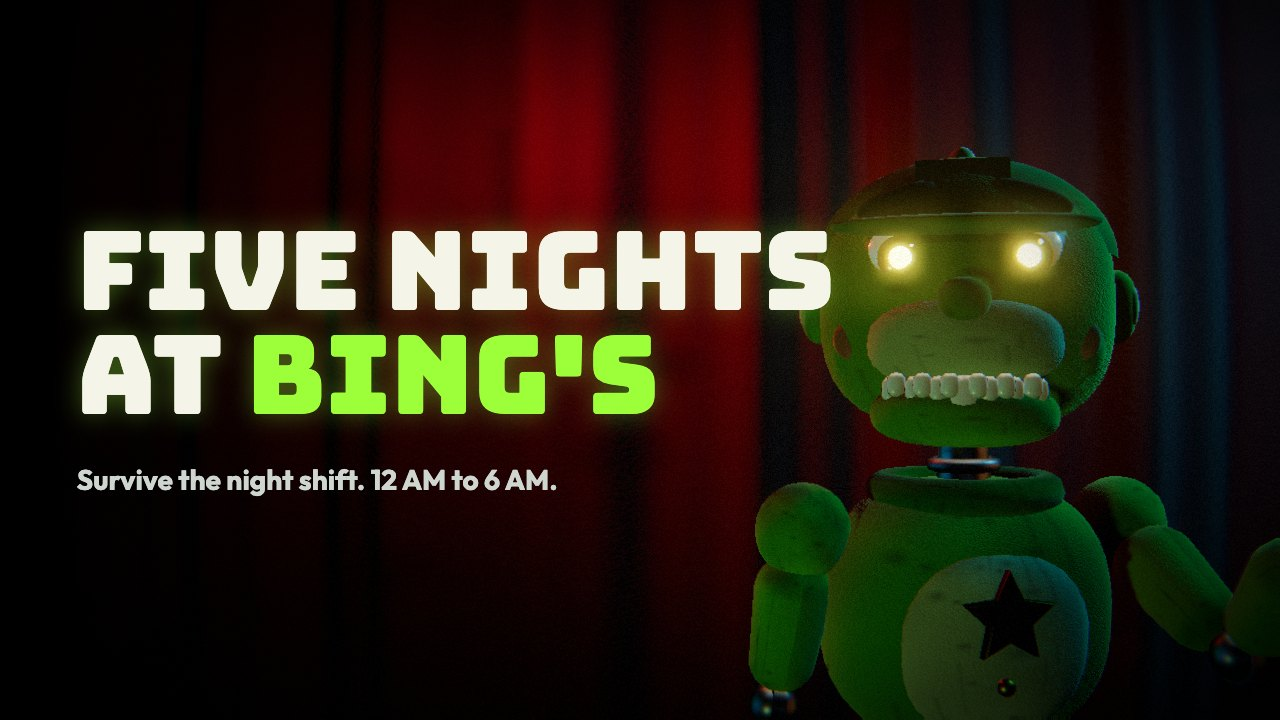
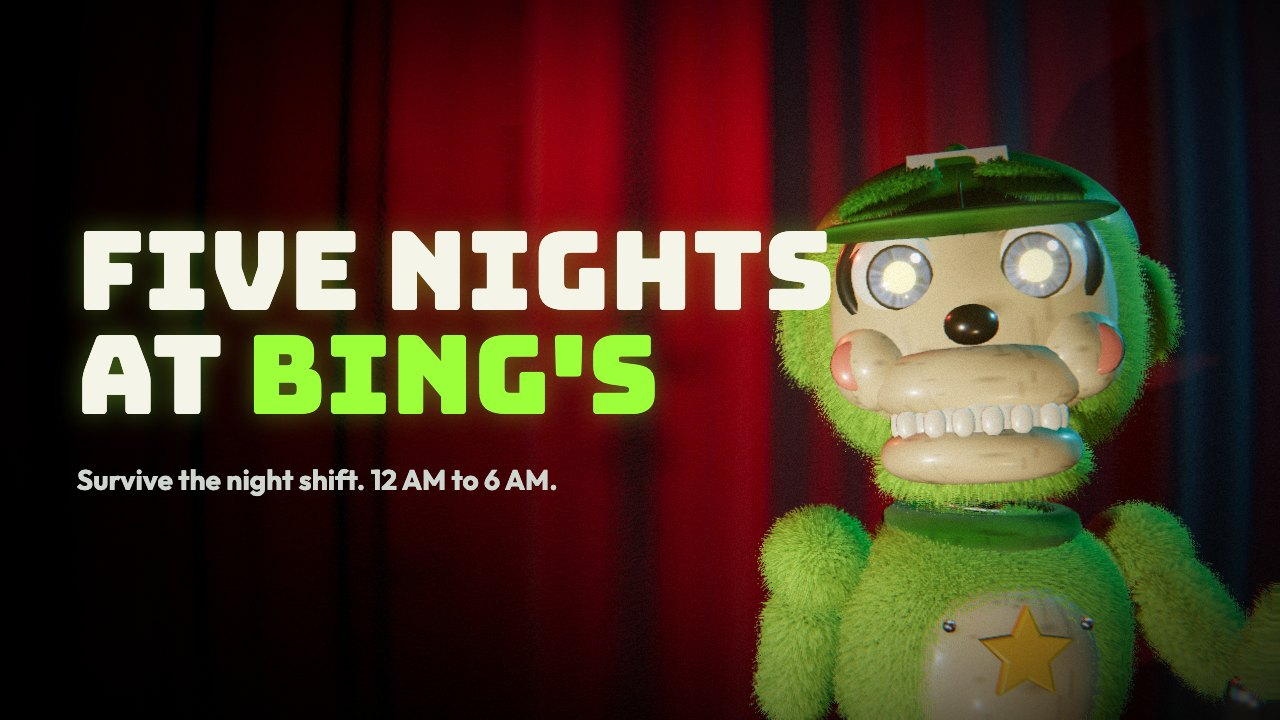
Five Nights at Bing's: fur-shell animatronics with face plates, glassy eyes, chrome joints and springs

diff --git a/games/five-nights-at-bings/js/models.js b/games/five-nights-at-bings/js/models.js
@@ -1,134 +1,139 @@
 // The cast, built from parts: fabric suit shells over a metal endoskeleton, with eyes that follow you.
 import * as THREE from 'three';
-import { TAU, add, B, sq, limbGeo, lathe, gSph, gCyl, gBox, suit, paint, metal, plastic, glass, glow, tex, label, sign, BLACK, ENDO, TOOTH, GRIME } from './kit.js';
+import { TAU, add, B, sq, limbGeo, lathe, gSph, gCyl, gBox, suit, paint, metal, plastic, glass, glow, tex, label, sign, BLACK, ENDO, TOOTH, GRIME, furMat, furMesh, spring, irisTex } from './kit.js';
 
 const SPEC = {
-  bing: { suit: 0x7dcb35, plate: 0xe8f1c6, dark: 0x3f8f17, eye: 0xffe45a, iris: 0x8a5a12, W: 1, leg: 0.62, ry: 0.34, bz: 1, head: 1.08, S: 0.9 },
-  dylan: { suit: 0x2f62cc, plate: 0xc9d8f2, dark: 0x1b3a80, eye: 0xff4a3a, iris: 0x8a1a12, W: 0.8, leg: 0.84, ry: 0.31, bz: 0.9, head: 0.96, S: 0.9 },
-  gavin: { suit: 0xea8c2e, plate: 0xffe2b8, dark: 0xa85a12, eye: 0xffd27a, iris: 0x5a3208, W: 1.5, leg: 0.5, ry: 0.42, bz: 1.55, head: 1.16, S: 0.92 },
-  sal: { suit: 0xc07a3c, plate: 0xe8d9c0, dark: 0x7a1f2b, eye: 0x8dff5a, iris: 0x2f6a1a, W: 0.95, leg: 0.64, ry: 0.34, bz: 1, head: 1, S: 0.9 },
+  bing: { suit: 0x8bd13f, plate: 0xf3e2b8, dark: 0x3f8f17, shoe: 0xc9e83a, eye: 0xffe45a, iris: 0x2f6fd0, W: 1, leg: 0.6, ry: 0.33, bz: 1, head: 1.16, S: 0.88 },
+  dylan: { suit: 0x3a6fdc, plate: 0xd6e2f6, dark: 0x1b3a80, shoe: 0xd23a3a, eye: 0xff4a3a, iris: 0xc0392b, W: 0.8, leg: 0.82, ry: 0.3, bz: 0.9, head: 1.04, S: 0.88 },
+  gavin: { suit: 0xf0932f, plate: 0xffe6c4, dark: 0xa85a12, shoe: 0x6a3a14, eye: 0xffd27a, iris: 0x7a4a12, W: 1.5, leg: 0.48, ry: 0.42, bz: 1.55, head: 1.24, S: 0.9 },
+  sal: { suit: 0xc88446, plate: 0xf0dcc0, dark: 0x7a1f2b, shoe: 0x1c1c20, eye: 0x8dff5a, iris: 0x3f8f2a, W: 0.95, leg: 0.62, ry: 0.33, bz: 1, head: 1.08, S: 0.88 },
 };
-const EYEWHITE = plastic(0xe9e6da, { roughness: 0.12 });
-const SPARK = glow(0xffffff);
+const EYEWHITE = plastic(0xf2efe6, { roughness: 0.08 });
+const SPARK = glow(0xffffff, 1.6);
+const CHROME = metal(0xcfd3d8, 0.16);
 
 function makeEye(r, iris, pupilMat) {
   const g = new THREE.Group();
-  add(g, gSph(r, 22), EYEWHITE);
-  const cap = (th, mat, rr) => { const m = add(g, new THREE.SphereGeometry(rr, 22, 8, 0, TAU, 0, th), mat); m.rotation.x = Math.PI / 2; };
-  cap(0.62, plastic(iris), r * 1.012); cap(0.3, pupilMat, r * 1.026);
-  add(g, gSph(r * 0.08, 8), SPARK, r * 0.28, r * 0.34, r * 0.9);
+  add(g, gSph(r, 26), EYEWHITE);
+  const cap = (th, mat, rr) => { const m = add(g, new THREE.SphereGeometry(rr, 26, 10, 0, TAU, 0, th), mat); m.rotation.x = Math.PI / 2; };
+  cap(0.68, plastic(0xffffff, { map: irisTex(iris), roughness: 0.1 }), r * 1.012); cap(0.3, pupilMat, r * 1.024);
+  add(g, gSph(r * 0.1, 8), SPARK, r * 0.3, r * 0.36, r * 0.9); add(g, gSph(r * 0.05, 6), SPARK, -r * 0.22, -r * 0.2, r * 0.95);
   return g;
 }
 
 // A head on its own (also used for the spare heads in Storage, with empty sockets).
 export function makeHead(who, empty = false) {
   const c = SPEC[who], out = new THREE.Group(), g = new THREE.Group(); out.add(g); g.scale.setScalar(c.head);
-  const S = suit(c.suit), Pm = suit(c.plate), dk = suit(0x1b1d22), D = suit(c.dark);
-  add(g, sq(0.33, 0.29, 0.31, 2.8, 32), S, 0, 0.3, 0);
-  for (const s of [-1, 1]) { add(g, sq(0.05, 0.085, 0.06, 2.4, 14), S, s * 0.335, 0.3, -0.02); add(g, sq(0.022, 0.05, 0.035, 2.4, 12), Pm, s * 0.365, 0.3, -0.005); add(g, gSph(0.1, 18), S, s * 0.2, 0.2, 0.15); add(g, gSph(0.045, 12), suit(0xe58a7a), s * 0.235, 0.205, 0.225).scale.z = 0.45; }
-  add(g, sq(0.215, 0.105, 0.15, 2.6, 24), Pm, 0, 0.2, 0.2);
-  add(g, sq(0.055, 0.045, 0.05, 2.2, 14), who === 'sal' ? suit(0xb0483a) : D, 0, 0.28, 0.34);
-  add(g, sq(0.17, 0.02, 0.11, 3, 12), BLACK, 0, 0.105, 0.2);
-  for (let i = -3; i <= 3; i++) { const big = who === 'bing' && Math.abs(i) < 1; add(g, sq(big ? 0.03 : 0.02, big ? 0.04 : 0.028, 0.014, 3, 8), TOOTH, i * 0.05, big ? 0.085 : 0.095, 0.335 - i * i * 0.006); }
-  const jaw = new THREE.Group(); jaw.position.set(0, 0.14, 0.03); g.add(jaw);
-  add(jaw, sq(0.2, 0.07, 0.16, 2.6, 22), S, 0, -0.085, 0.165); add(jaw, sq(0.16, 0.015, 0.11, 3, 10), BLACK, 0, -0.03, 0.17); add(jaw, sq(0.07, 0.018, 0.09, 2, 10), paint(0x7a2a2a, { roughness: 0.4 }), 0, -0.02, 0.19);
-  for (let i = -2.5; i <= 2.5; i++) add(jaw, sq(0.02, 0.026, 0.013, 3, 8), TOOTH, i * 0.055, -0.022, 0.315 - i * i * 0.007);
-  // endoskeleton hinge visible at the jaw corners
-  for (const s of [-1, 1]) add(g, gCyl(0.03, 0.03, 0.04, 10), ENDO, s * 0.2, 0.14, 0.04).rotation.z = Math.PI / 2;
-  const pupil = new THREE.MeshStandardMaterial({ color: 0x000000, roughness: 0.2, emissive: c.eye, emissiveIntensity: 0 });
-  const eyes = [], lids = [], r = 0.082;
+  const F = furMat(c.suit), Pl = plastic(c.plate, { roughness: 0.42, clearcoat: 0.4, map: GRIME }), dk = plastic(0x15171b, { roughness: 0.45 }), DF = furMat(c.dark, 0.02);
+  furMesh(g, sq(0.34, 0.31, 0.32, 2.6, 36), F, 0, 0.32, 0);
+  for (const s of [-1, 1]) { furMesh(g, sq(0.06, 0.1, 0.07, 2.4, 14), F, s * 0.35, 0.32, -0.02); add(g, sq(0.022, 0.06, 0.04, 2.4, 12), Pl, s * 0.388, 0.32, 0.0); }
+  add(g, sq(0.275, 0.245, 0.12, 2.5, 32), Pl, 0, 0.315, 0.235);
+  for (const s of [-1, 1]) { add(g, gSph(0.092, 20), Pl, s * 0.185, 0.215, 0.268); add(g, gSph(0.05, 12), plastic(0xe9877a, { roughness: 0.5 }), s * 0.222, 0.212, 0.33).scale.z = 0.35; }
+  add(g, sq(0.2, 0.075, 0.1, 2.6, 24), Pl, 0, 0.168, 0.285);
+  add(g, sq(0.05, 0.038, 0.045, 2.2, 14), plastic(who === 'sal' ? 0xb0483a : 0x2a1c14, { roughness: 0.3 }), 0, 0.268, 0.378);
+  add(g, sq(0.16, 0.02, 0.09, 3, 10), BLACK, 0, 0.1, 0.27);
+  for (let i = -3; i <= 3; i++) { const big = who === 'bing' && Math.abs(i) < 1; add(g, sq(big ? 0.03 : 0.021, big ? 0.042 : 0.03, 0.014, 3, 8), TOOTH, i * 0.048, big ? 0.084 : 0.092, 0.365 - i * i * 0.0065); }
+  const jaw = new THREE.Group(); jaw.position.set(0, 0.13, 0.06); g.add(jaw);
+  add(jaw, sq(0.19, 0.062, 0.14, 2.6, 24), Pl, 0, -0.085, 0.2); furMesh(jaw, sq(0.2, 0.06, 0.14, 2.4, 18), F, 0, -0.118, 0.1);
+  add(jaw, sq(0.15, 0.014, 0.1, 3, 10), BLACK, 0, -0.036, 0.2); add(jaw, sq(0.07, 0.018, 0.08, 2, 10), plastic(0x8a2f2f, { roughness: 0.3 }), 0, -0.026, 0.22);
+  for (let i = -2.5; i <= 2.5; i++) add(jaw, sq(0.021, 0.027, 0.013, 3, 8), TOOTH, i * 0.052, -0.026, 0.33 - i * i * 0.0075);
+  for (const s of [-1, 1]) { add(g, gCyl(0.034, 0.034, 0.05, 12), CHROME, s * 0.205, 0.13, 0.07).rotation.z = Math.PI / 2; add(g, gSph(0.014, 8), CHROME, s * 0.235, 0.13, 0.07); }
+  const pupil = new THREE.MeshStandardMaterial({ color: 0x000000, roughness: 0.15, emissive: c.eye, emissiveIntensity: 0 });
+  const eyes = [], lids = [], r = 0.1;
   for (const s of [-1, 1]) {
-    add(g, gSph(r * 1.24, 18), BLACK, s * 0.135, 0.385, 0.18);
+    add(g, gSph(r * 1.16, 18), BLACK, s * 0.13, 0.385, 0.235);
+    add(g, new THREE.TorusGeometry(r * 1.03, 0.02, 10, 30), dk, s * 0.13, 0.385, 0.305);
     if (!empty) {
-      const e = makeEye(r, c.iris, pupil); e.position.set(s * 0.135, 0.385, 0.225); g.add(e); eyes.push(e);
-      const lg = new THREE.Group(); lg.position.copy(e.position); g.add(lg); add(lg, new THREE.SphereGeometry(r * 1.13, 20, 9, 0, TAU, 0, Math.PI / 2), S); lg.rotation.x = -0.45; lids.push(lg);
+      const e = makeEye(r, c.iris, pupil); e.position.set(s * 0.13, 0.385, 0.278); g.add(e); eyes.push(e);
+      const lg = new THREE.Group(); lg.position.copy(e.position); g.add(lg); add(lg, new THREE.SphereGeometry(r * 1.1, 24, 10, 0, TAU, 0, Math.PI / 2), Pl); lg.rotation.x = -0.5; lids.push(lg);
     }
-    add(g, sq(0.09, 0.026, 0.032, 2.4, 12), dk, s * 0.14, 0.505, 0.262).rotation.z = -s * 0.34;
+    furMesh(g, sq(0.1, 0.028, 0.04, 2.4, 12), DF, s * 0.135, 0.548, 0.3).rotation.z = -s * 0.3;
   }
   if (who === 'bing') {
-    add(g, new THREE.SphereGeometry(0.345, 28, 12, 0, TAU, 0, Math.PI / 2), D, 0, 0.4, -0.01).scale.set(1, 0.72, 0.98);
-    add(g, sq(0.27, 0.018, 0.2, 2.6, 18), D, 0, 0.43, 0.36).rotation.x = 0.12; add(g, gSph(0.03, 10), Pm, 0, 0.655, -0.01);
-    const b = sign(g, 0.2, 0.17, 0, 0.535, 0.262, 0, label('B', '#3f8f17', '#f4f4e8', 0.86), false, 128); b.rotation.x = -0.62;
+    const capM = plastic(c.dark, { roughness: 0.55, clearcoat: 0.2, map: GRIME });
+    add(g, new THREE.SphereGeometry(0.36, 30, 14, 0, TAU, 0, Math.PI / 2), capM, 0, 0.44, -0.01).scale.set(1, 0.7, 0.98);
+    add(g, sq(0.28, 0.018, 0.2, 2.6, 20), capM, 0, 0.46, 0.38).rotation.x = 0.12; add(g, gSph(0.032, 10), capM, 0, 0.695, -0.01);
+    for (let k = 0; k < 6; k++) { const sm = add(g, new THREE.TorusGeometry(0.352, 0.004, 4, 20, Math.PI), plastic(0x2f6f12), 0, 0.44, -0.01); sm.rotation.y = k * Math.PI / 6; sm.scale.y = 0.7; }
+    const b = sign(g, 0.2, 0.17, 0, 0.575, 0.272, 0, label('B', '#3f8f17', '#f4f4e8', 0.86), false, 128); b.rotation.x = -0.6;
   }
   if (who === 'dylan') {
-    const hair = suit(0x14161c);
-    for (let k = 0; k < 13; k++) { const a = (k / 12 - 0.5) * 2.2, row = k % 2, s = add(g, new THREE.ConeGeometry(0.075, 0.26 + row * 0.08, 7), hair, Math.sin(a) * 0.24, 0.56 + Math.cos(a) * 0.08, row ? -0.08 : 0.08); s.rotation.set(row ? -0.3 : 0.35, 0, -a * 0.8); }
-    const red = plastic(0xe23d3d); add(g, new THREE.TorusGeometry(0.36, 0.028, 10, 28, Math.PI), red, 0, 0.3, -0.02);
-    for (const s of [-1, 1]) { add(g, gCyl(0.11, 0.11, 0.07, 20), red, s * 0.385, 0.3, -0.02).rotation.z = Math.PI / 2; add(g, new THREE.TorusGeometry(0.085, 0.03, 8, 18), suit(0x14161c), s * 0.35, 0.3, -0.02).rotation.y = Math.PI / 2; }
+    const hair = furMat(0x15171d, 0.02);
+    for (let k = 0; k < 15; k++) { const a = (k / 14 - 0.5) * 2.3, row = k % 2, sp = furMesh(g, new THREE.ConeGeometry(0.08, 0.28 + row * 0.1, 8), hair, Math.sin(a) * 0.25, 0.6 + Math.cos(a) * 0.08, row ? -0.1 : 0.08); sp.rotation.set(row ? -0.3 : 0.35, 0, -a * 0.8); }
+    const red = plastic(0xe23d3d); add(g, new THREE.TorusGeometry(0.385, 0.03, 10, 30, Math.PI), red, 0, 0.32, -0.02);
+    for (const s of [-1, 1]) { add(g, gCyl(0.12, 0.12, 0.08, 22), red, s * 0.42, 0.32, -0.02).rotation.z = Math.PI / 2; add(g, new THREE.TorusGeometry(0.09, 0.034, 8, 20), plastic(0x15171b, { roughness: 0.7 }), s * 0.385, 0.32, -0.02).rotation.y = Math.PI / 2; add(g, gCyl(0.06, 0.06, 0.012, 16), CHROME, s * 0.462, 0.32, -0.02).rotation.z = Math.PI / 2; }
   }
   if (who === 'gavin') {
-    const hat = suit(0xf6f2ea); add(g, gCyl(0.27, 0.28, 0.17, 24), hat, 0, 0.63, 0);
-    for (let k = 0; k < 6; k++) add(g, gSph(0.19, 16), hat, Math.cos(k * TAU / 6) * 0.17, 0.84, Math.sin(k * TAU / 6) * 0.17); add(g, gSph(0.22, 16), hat, 0, 0.93, 0);
-    add(g, sq(0.2, 0.07, 0.14, 2.2, 16), Pm, 0, 0.02, 0.12); // double chin
+    const hat = suit(0xf6f2ea); add(g, gCyl(0.28, 0.29, 0.18, 26), hat, 0, 0.67, 0);
+    for (let k = 0; k < 7; k++) add(g, gSph(0.19, 18), hat, Math.cos(k * TAU / 7) * 0.18, 0.89, Math.sin(k * TAU / 7) * 0.18); add(g, gSph(0.23, 18), hat, 0, 0.98, 0);
+    add(g, sq(0.21, 0.07, 0.15, 2.2, 16), Pl, 0, 0.03, 0.14);
   }
   if (who === 'sal') {
-    const hair = plastic(0x0c0c0e, { roughness: 0.3 });
-    add(g, new THREE.SphereGeometry(0.34, 26, 12, 0, TAU, 0, Math.PI / 2.15), hair, 0, 0.33, -0.015).scale.set(1.01, 0.86, 1);
-    add(g, sq(0.2, 0.05, 0.08, 2.2, 12), hair, 0.1, 0.56, 0.2).rotation.set(0.3, 0, -0.25);
-    for (const s of [-1, 1]) { add(g, sq(0.03, 0.09, 0.07, 2.4, 10), hair, s * 0.325, 0.36, 0.07); const m = add(g, limbGeo(0.03, 0.012, 0.15, 10), suit(0x15110e), s * 0.012, 0.225, 0.345); m.rotation.set(0.2, 0, s * 1.25); }
-    if (lids[0]) lids[0].userData.droop = 0.55;
+    const hair = plastic(0x0c0c0e, { roughness: 0.22 });
+    add(g, new THREE.SphereGeometry(0.352, 28, 12, 0, TAU, 0, Math.PI / 2.15), hair, 0, 0.36, -0.015).scale.set(1.01, 0.86, 1);
+    add(g, sq(0.2, 0.05, 0.08, 2.2, 12), hair, 0.1, 0.6, 0.2).rotation.set(0.3, 0, -0.25);
+    const st = furMat(0x17120e, 0.016);
+    for (const s of [-1, 1]) { add(g, sq(0.03, 0.09, 0.07, 2.4, 10), hair, s * 0.335, 0.38, 0.08); const m = furMesh(g, limbGeo(0.034, 0.012, 0.17, 10), st, s * 0.012, 0.232, 0.385); m.rotation.set(0.2, 0, s * 1.25); }
+    if (lids[0]) lids[0].userData.droop = 0.6;
   }
-  out.userData = { jaw, eyes, lids, pupil, top: 0.6 * c.head };
+  out.userData = { jaw, eyes, lids, pupil, top: 0.64 * c.head };
   return out;
 }
 
-function makeArm(c, s, S, Pm) {
+function makeArm(c, s, F, Pl) {
   const sh = new THREE.Group(), el = new THREE.Group(), hand = new THREE.Group();
-  add(sh, gSph(0.12, 18), S); add(sh, limbGeo(0.1, 0.085, 0.36), S, 0, -0.06, 0);
-  add(sh, gCyl(0.03, 0.03, 0.1, 8), ENDO, 0, -0.42, 0);
-  el.position.y = -0.46; sh.add(el); add(el, gSph(0.062, 14), ENDO); add(el, gCyl(0.07, 0.07, 0.035, 12), ENDO).rotation.z = Math.PI / 2;
-  add(el, limbGeo(0.08, 0.1, 0.32), S, 0, -0.05, 0); add(el, gCyl(0.028, 0.028, 0.08, 8), ENDO, 0, -0.39, 0);
-  hand.position.y = -0.43; el.add(hand);
-  add(hand, sq(0.078, 0.08, 0.045, 2.6, 14), Pm, 0, -0.07, 0);
-  for (let i = 0; i < 4; i++) { const f = add(hand, limbGeo(0.025, 0.021, 0.13, 8), Pm, (i - 1.5) * 0.04, -0.12, 0.01); f.rotation.x = -0.75; f.rotation.z = (i - 1.5) * 0.06; add(f, limbGeo(0.021, 0.018, 0.09, 8), Pm, 0, -0.115, 0).rotation.x = -0.9; }
-  const th = add(hand, limbGeo(0.027, 0.022, 0.1, 8), Pm, s * 0.07, -0.04, 0.02); th.rotation.set(-0.9, 0, s * 0.9);
+  furMesh(sh, gSph(0.125, 18), F); furMesh(sh, limbGeo(0.1, 0.085, 0.36), F, 0, -0.06, 0);
+  add(sh, gCyl(0.028, 0.028, 0.1, 8), CHROME, 0, -0.42, 0);
+  el.position.y = -0.46; sh.add(el); add(el, gSph(0.062, 16), CHROME); add(el, gCyl(0.07, 0.07, 0.036, 14), ENDO).rotation.z = Math.PI / 2; for (const k of [-1, 1]) add(el, gSph(0.016, 8), CHROME, k * 0.04, 0, 0.06);
+  furMesh(el, limbGeo(0.08, 0.098, 0.3), F, 0, -0.05, 0); add(el, gCyl(0.1, 0.092, 0.05, 20), Pl, 0, -0.355, 0); spring(el, 0.034, 0.07, 3, 0, -0.405, 0, CHROME);
+  hand.position.y = -0.44; el.add(hand);
+  add(hand, sq(0.08, 0.082, 0.046, 2.6, 16), Pl, 0, -0.07, 0);
+  for (let i = 0; i < 4; i++) { const f = add(hand, limbGeo(0.026, 0.022, 0.13, 10), Pl, (i - 1.5) * 0.041, -0.12, 0.01); f.rotation.x = -0.75; f.rotation.z = (i - 1.5) * 0.06; add(f, gSph(0.024, 8), CHROME, 0, -0.118, 0); add(f, limbGeo(0.022, 0.018, 0.09, 10), Pl, 0, -0.118, 0).rotation.x = -0.9; }
+  const th = add(hand, limbGeo(0.028, 0.022, 0.1, 10), Pl, s * 0.072, -0.04, 0.02); th.rotation.set(-0.9, 0, s * 0.9);
   return { sh, el, hand };
 }
 
 export function makeBot(who) {
   const c = SPEC[who], g = new THREE.Group(), W = c.W;
-  const S = suit(c.suit), Pm = suit(c.plate), D = suit(c.dark), shoe = suit(0x202228);
+  const F = furMat(c.suit), Pl = plastic(c.plate, { roughness: 0.42, clearcoat: 0.4, map: GRIME }), DF = furMat(c.dark), shoe = plastic(c.shoe, { roughness: 0.22 }), S = suit(c.suit), D = suit(c.dark);
   const hipY = c.leg + 0.12, rx = 0.36 * W, ry = c.ry, rz = 0.27 * c.bz, tc = hipY + 0.2 + ry;
   for (const s of [-1, 1]) {
-    const x = s * 0.17 * Math.min(W, 1.25), th = c.leg * 0.46, shn = c.leg * 0.44;
-    add(g, gSph(0.07, 12), ENDO, x, hipY, 0); add(g, limbGeo(0.13, 0.11, th), S, x, hipY - 0.02, 0);
-    const ky = hipY - 0.02 - th - 0.035; add(g, gSph(0.06, 12), ENDO, x, ky, 0); add(g, gCyl(0.065, 0.065, 0.04, 12), ENDO, x, ky, 0).rotation.z = Math.PI / 2;
-    add(g, limbGeo(0.1, 0.135, shn), S, x, ky - 0.035, 0); add(g, gCyl(0.03, 0.03, 0.08, 8), ENDO, x, 0.16, 0);
-    add(g, sq(0.13, 0.075, 0.21, 2.8, 16), who === 'dylan' ? suit(0xd23a3a) : shoe, x, 0.085, 0.07); add(g, sq(0.135, 0.02, 0.215, 3, 12), suit(0xe8e4d4), x, 0.02, 0.07);
+    const x = s * 0.17 * Math.min(W, 1.25), th = c.leg * 0.46, shn = c.leg * 0.42;
+    add(g, gSph(0.07, 14), CHROME, x, hipY, 0); furMesh(g, limbGeo(0.13, 0.11, th), F, x, hipY - 0.02, 0);
+    const ky = hipY - 0.02 - th - 0.035; add(g, gSph(0.06, 14), CHROME, x, ky, 0); add(g, gCyl(0.066, 0.066, 0.042, 14), ENDO, x, ky, 0).rotation.z = Math.PI / 2;
+    furMesh(g, limbGeo(0.1, 0.13, shn), F, x, ky - 0.035, 0); spring(g, 0.04, 0.09, 3, x, 0.185, 0, CHROME); add(g, gCyl(0.022, 0.022, 0.1, 8), ENDO, x, 0.185, 0);
+    add(g, sq(0.135, 0.078, 0.215, 2.8, 20), shoe, x, 0.092, 0.07); add(g, sq(0.14, 0.022, 0.222, 3, 14), plastic(0x17181b, { roughness: 0.6 }), x, 0.022, 0.07);
+    add(g, sq(0.1, 0.05, 0.07, 2.4, 14), plastic(0xf1ead8, { roughness: 0.3 }), x, 0.075, 0.235); for (let k = 0; k < 3; k++) add(g, gCyl(0.008, 0.008, 0.11, 6), plastic(0xf4f4f4), x, 0.15 - k * 0.012, 0.1 + k * 0.045).rotation.z = Math.PI / 2;
   }
-  add(g, sq(0.27 * W, 0.14, 0.21 * Math.sqrt(c.bz), 2.6, 22), D, 0, hipY + 0.07, 0);
-  add(g, gCyl(0.075, 0.075, 0.12, 12), ENDO, 0, hipY + 0.18, 0);
-  add(g, sq(rx, ry, rz, 2.5, 34), S, 0, tc, 0);
-  add(g, sq(rx * 0.68, ry * 0.7, rz * 0.5, 2.4, 26), Pm, 0, tc - ry * 0.08, rz * 0.62);
-  // character dress
+  furMesh(g, sq(0.27 * W, 0.14, 0.21 * Math.sqrt(c.bz), 2.6, 22), DF, 0, hipY + 0.07, 0);
+  add(g, gCyl(0.07, 0.07, 0.12, 14), ENDO, 0, hipY + 0.18, 0); spring(g, 0.1, 0.1, 3, 0, hipY + 0.18, 0, CHROME);
+  furMesh(g, sq(rx, ry, rz, 2.5, 36), F, 0, tc, 0);
+  add(g, sq(rx * 0.66, ry * 0.7, rz * 0.5, 2.4, 28), Pl, 0, tc - ry * 0.08, rz * 0.66);
+  for (const [ax, ay] of [[-0.5, 0.42], [0.5, 0.42], [-0.5, -0.5], [0.5, -0.5]]) add(g, gSph(0.016, 8), CHROME, ax * rx * 0.9, tc - ry * 0.08 + ay * ry * 0.9, rz * (who === 'gavin' ? 1.0 : 1.02));
   if (who === 'bing') {
     const star = new THREE.Shape(); for (let i = 0; i < 10; i++) { const a = -Math.PI / 2 + i * Math.PI / 5, r = i % 2 ? 0.045 : 0.1; star[i ? 'lineTo' : 'moveTo'](Math.cos(a) * r, -Math.sin(a) * r); }
-    const st = add(g, new THREE.ExtrudeGeometry(star, { depth: 0.025, bevelEnabled: true, bevelSize: 0.008, bevelThickness: 0.008, bevelSegments: 2 }), metal(0xf2c230, 0.3), 0, tc + ry * 0.12, rz * 1.08); st.rotation.x = -0.1;
+    const st = add(g, new THREE.ExtrudeGeometry(star, { depth: 0.025, bevelEnabled: true, bevelSize: 0.008, bevelThickness: 0.008, bevelSegments: 2 }), plastic(0xf2b61e, { roughness: 0.25 }), 0, tc + ry * 0.12, rz * 1.14); st.rotation.x = -0.1;
     add(g, new THREE.TorusGeometry(0.2, 0.045, 10, 24), D, 0, tc + ry * 0.9, 0).rotation.x = Math.PI / 2;
-    for (const y of [-0.12, -0.24]) add(g, gSph(0.022, 10), metal(0xf2c230, 0.3), 0, tc + y, rz * 1.12);
   }
   if (who === 'dylan') {
-    add(g, sq(rx * 0.6, 0.09, 0.05, 2.6, 14), D, 0, tc - ry * 0.45, rz * 0.98);
-    for (const s of [-1, 1]) { add(g, limbGeo(0.012, 0.012, 0.24, 6), suit(0xf4f4f4), s * 0.06, tc + ry * 0.75, rz * 0.82).rotation.x = -0.25; add(g, gSph(0.02, 8), suit(0xf4f4f4), s * 0.06, tc + ry * 0.75 - 0.23, rz * 0.82 + 0.06); }
-    add(g, sq(0.2, 0.09, 0.14, 2.2, 16), S, 0, tc + ry * 0.92, -0.06); // hood
+    add(g, sq(rx * 0.6, 0.09, 0.05, 2.6, 14), D, 0, tc - ry * 0.5, rz * 1.12);
+    for (const s of [-1, 1]) { add(g, limbGeo(0.012, 0.012, 0.24, 6), suit(0xf4f4f4), s * 0.06, tc + ry * 0.78, rz * 0.9).rotation.x = -0.25; add(g, gSph(0.02, 8), CHROME, s * 0.06, tc + ry * 0.78 - 0.23, rz * 0.9 + 0.06); }
+    furMesh(g, sq(0.2, 0.09, 0.14, 2.2, 16), F, 0, tc + ry * 0.92, -0.06);
   }
   if (who === 'gavin') {
-    add(g, sq(rx * 0.8, ry * 0.86, 0.06, 3.2, 22), suit(0xf6f2ea), 0, tc - ry * 0.12, rz * 0.98);
-    sign(g, 0.46, 0.22, 0, tc - ry * 0.05, rz * 0.98 + 0.062, 0, label('EAT', '#c0392b', '#f6f2ea', 0.86), false, 256);
+    add(g, sq(rx * 0.8, ry * 0.86, 0.06, 3.2, 24), suit(0xf6f2ea), 0, tc - ry * 0.12, rz * 1.06);
+    sign(g, 0.46, 0.22, 0, tc - ry * 0.05, rz * 1.06 + 0.062, 0, label('EAT', '#c0392b', '#f6f2ea', 0.86), false, 256);
     add(g, new THREE.TorusGeometry(0.22, 0.02, 8, 24), suit(0xf6f2ea), 0, tc + ry * 0.86, 0.02).rotation.x = Math.PI / 2 - 0.3;
   }
   if (who === 'sal') {
-    for (const s of [-1, 1]) add(g, sq(rx * 0.56, ry * 0.98, rz * 1.02, 2.5, 22), D, s * rx * 0.5, tc - 0.005, 0.012);
-    add(g, sq(rx * 0.3, ry * 0.8, rz * 0.5, 2.4, 18), Pm, 0, tc, rz * 0.66);
-    for (const y of [-0.2, -0.08, 0.04]) add(g, gSph(0.02, 10), metal(0xf2c230, 0.3), rx * 0.2, tc + y, rz * 1.06);
-    const tie = plastic(0xc0392b, { roughness: 0.6 }); add(g, sq(0.05, 0.04, 0.03, 2.4, 10), tie, 0.02, tc + ry * 0.72, rz * 0.92); const t = add(g, limbGeo(0.03, 0.055, 0.34, 8), tie, 0.02, tc + ry * 0.7, rz * 0.95); t.rotation.set(-0.25, 0, 0.22); t.scale.z = 0.4;
+    for (const s of [-1, 1]) add(g, sq(rx * 0.56, ry * 1.0, rz * 1.16, 2.5, 24), D, s * rx * 0.52, tc - 0.005, 0.012);
+    for (const y of [-0.2, -0.08, 0.04]) add(g, gSph(0.02, 10), plastic(0xf2b61e, { roughness: 0.25 }), rx * 0.2, tc + y, rz * 1.2);
+    const tie = plastic(0xc0392b, { roughness: 0.6 }); add(g, sq(0.05, 0.04, 0.03, 2.4, 10), tie, 0.02, tc + ry * 0.72, rz * 1.02); const t = add(g, limbGeo(0.03, 0.055, 0.34, 8), tie, 0.02, tc + ry * 0.7, rz * 1.05); t.rotation.set(-0.25, 0, 0.22); t.scale.z = 0.4;
   }
-  // arms
   const sy = tc + ry * 0.62, sxp = rx + 0.05, arms = {};
-  for (const s of [1, -1]) { const a = makeArm(c, s, S, Pm); a.sh.position.set(s * sxp, sy, 0); g.add(a.sh); arms[s > 0 ? 'R' : 'L'] = a; }
+  for (const s of [1, -1]) { const a = makeArm(c, s, F, Pl); a.sh.position.set(s * sxp, sy, 0); g.add(a.sh); arms[s > 0 ? 'R' : 'L'] = a; }
   const prop = new THREE.Group(); prop.position.set(0, -0.1, 0.07); arms.R.hand.add(prop);
   let liquid = null;
-  if (who === 'bing') { add(prop, gCyl(0.024, 0.02, 0.28, 12), plastic(0x222428), 0, 0.02, 0); add(prop, gCyl(0.03, 0.028, 0.05, 12), metal(0x9a9a9a), 0, 0.17, 0); add(prop, gSph(0.062, 16), metal(0x55585c, 0.6), 0, 0.24, 0); add(prop, new THREE.TorusGeometry(0.062, 0.006, 6, 20), metal(0xbfc3c8), 0, 0.24, 0).rotation.x = Math.PI / 2; }
+  if (who === 'bing') { add(prop, gCyl(0.024, 0.02, 0.28, 12), plastic(0x222428), 0, 0.02, 0); add(prop, gCyl(0.03, 0.028, 0.05, 12), CHROME, 0, 0.17, 0); add(prop, gSph(0.062, 16), metal(0x55585c, 0.6), 0, 0.24, 0); add(prop, new THREE.TorusGeometry(0.062, 0.006, 6, 20), CHROME, 0, 0.24, 0).rotation.x = Math.PI / 2; }
   if (who === 'dylan') for (const s of [-1, 1]) { const st = add(prop, limbGeo(0.014, 0.01, 0.5, 8), paint(0xd9b27a, { roughness: 0.5 }), s * 0.03, 0.42, 0); st.rotation.z = s * 0.22; add(prop, gSph(0.02, 8), paint(0xd9b27a), s * 0.03 - s * 0.092, 0.41, 0); }
   if (who === 'gavin') {
     const bun = paint(0xd99a3c, { roughness: 0.55 }); add(prop, sq(0.16, 0.035, 0.16, 2.2, 16), bun, 0, 0.04, 0); add(prop, gCyl(0.165, 0.165, 0.045, 20), paint(0x4a240e, { roughness: 0.9 }), 0, 0.095, 0);
@@ -140,11 +145,10 @@ export function makeBot(who) {
     liquid = add(prop, gCyl(0.052, 0.052, 0.2, 14), new THREE.MeshStandardMaterial({ color: 0xd9a13a, emissive: 0x6a4200, roughness: 0.3 }), 0, 0.045, 0);
     const lb = sign(prop, 0.1, 0.09, 0, 0.05, 0.064, 0, label('XXX', '#7a1f2b', '#f1ead8', 0.6), false, 128); lb.userData.noShadow = true;
   }
-  // neck + head
-  add(g, gCyl(0.06, 0.07, 0.14, 12), ENDO, 0, tc + ry + 0.04, 0); add(g, new THREE.TorusGeometry(0.075, 0.018, 8, 16), ENDO, 0, tc + ry + 0.03, 0).rotation.x = Math.PI / 2;
+  add(g, gCyl(0.055, 0.065, 0.16, 14), ENDO, 0, tc + ry + 0.04, 0); spring(g, 0.085, 0.11, 3, 0, tc + ry + 0.045, 0, CHROME);
   const head = makeHead(who); head.position.y = tc + ry + 0.1; g.add(head);
   g.scale.setScalar(c.S);
-  g.userData = { ...head.userData, head, arms, prop, liquid, eyeY: (tc + ry + 0.1 + 0.36 * c.head) * c.S, seed: who.length * 1.7 + who.charCodeAt(0) };
+  g.userData = { ...head.userData, head, arms, prop, liquid, eyeY: (tc + ry + 0.1 + 0.385 * c.head) * c.S, seed: who.length * 1.7 + who.charCodeAt(0) };
   g.visible = false; setPose(g, 'idle');
   return g;
 }
@@ -172,9 +176,9 @@ export function animate(m, t, camPos, o = {}) {
   else { u.head.rotation.z += Math.sin(t * 0.6 + u.seed) * 0.07 + tw * (hash(tk + 3) - 0.5) * 0.3; u.head.rotation.y += tw * (hash(tk + 5) - 0.5) * 0.25; }
   for (const e of u.eyes) e.lookAt(camPos);
   const blink = hash(Math.floor(t * 3 + u.seed * 3)) > 0.93 && (t * 3 + u.seed * 3) % 1 < 0.35;
-  for (const l of u.lids) l.rotation.x = o.wide ? -0.95 : blink ? 1.15 : -0.45 + (l.userData.droop || 0) + (o.glow ? -0.15 : 0);
+  for (const l of u.lids) l.rotation.x = o.wide ? -1.0 : blink ? 1.15 : -0.55 + (l.userData.droop || 0) + (o.glow ? -0.12 : 0);
   u.jaw.rotation.x = o.jaw != null ? o.jaw : 0.05 + (hash(Math.floor(t * 1.3 + u.seed)) > 0.8 ? Math.abs(Math.sin(t * 22)) * 0.16 : 0);
-  u.pupil.emissiveIntensity = o.glow ? 5 : 0;
+  u.pupil.emissiveIntensity = o.glow ? (o.wide ? 4 : 2.2) : 0;
 }
 
 // ---------- Benton: the porcelain wind-up doll in the music box ----------

diff --git a/games/five-nights-at-bings/js/scene3d.js b/games/five-nights-at-bings/js/scene3d.js
@@ -6,7 +6,7 @@ import { RenderPass } from 'three/addons/postprocessing/RenderPass.js';
 import { UnrealBloomPass } from 'three/addons/postprocessing/UnrealBloomPass.js';
 import { OutputPass } from 'three/addons/postprocessing/OutputPass.js';
 import { ShaderPass } from 'three/addons/postprocessing/ShaderPass.js';
-import { TAU, add, B, sq, limbGeo, lathe, gSph, gCyl, gBox, tex, wallTex, tileTex, WOOD, GRIME, label, sign, beam, suit, paint, metal, plastic, glass, glow, setEnv, BLACK, ENDO, rand } from './kit.js';
+import { TAU, add, B, sq, limbGeo, lathe, gSph, gCyl, gBox, tex, wallTex, tileTex, WOOD, GRIME, label, sign, beam, suit, paint, metal, plastic, glass, glow, setEnv, setFur, BLACK, ENDO, rand } from './kit.js';
 import { makeBot, makeHead, makeDoll, makeTokens, makeMusicBox, makeEndo, setPose, animate } from './models.js';
 
 let R, scene, cam, composer, bloom, fin, amb, key, quality = 2;
@@ -249,7 +249,7 @@ function buildSets() {
   });
   ROOM.whall = { ox: 0, cam: [-5.4, 2.6, -5.0], look: [-5.4, 1.2, -11], amb: 0.03, key: [-5.4, 3.1, -8, -5.4, 0, -8.3, 0xeaf2ff, 60, 1.15, 0.7, 9, 1], fills: [[-5.4, 2.9, -3.5, 0xeaf2ff, 14, 6], [-5.4, 2.9, -12.5, 0xeaf2ff, 14, 6, 1], [-5.4, 2.5, -15.6, 0x7dffa0, 4, 4]], spots: { dylan: [-5.6, 0, -8.2, 0], bing: [-5.2, 0, -10.6, 0] }, pose: 'idle', fx: [P.hallFx.L[2], P.hallFx.L[3]] };
   ROOM.ehall = { ox: 0, cam: [5.4, 2.6, -5.0], look: [5.4, 1.2, -11], amb: 0.03, key: [5.4, 3.1, -8, 5.4, 0, -8.3, 0xfff0d0, 60, 1.15, 0.7, 9, 1], fills: [[5.4, 2.9, -3.5, 0xfff0d0, 14, 6], [5.4, 2.9, -12.5, 0xfff0d0, 14, 6, 1], [5.4, 2.5, -15.6, 0x7dffa0, 4, 4]], spots: { gavin: [5.6, 0, -8.2, 0], bing: [5.2, 0, -10.6, 0] }, pose: 'idle', fx: [P.hallFx.R[2], P.hallFx.R[3]] };
-  set('title', 800, { cam: [-0.5, 1.7, 2.7], look: [-0.75, 1.72, 0], amb: 0.015, sway: 0, key: [-1.6, 0.5, 1.8, 0, 1.8, 0, 0xc8ffa0, 60, 0.8, 0.7, 8, 1], fills: [[1.6, 2.8, -0.4, 0x3ad7ff, 16, 5], [-1.4, 2.6, -0.8, 0xff4030, 6, 5]], spots: {} }, g => { curtain(g, 9, 5, 0, 2.5, -1.6); B(g, 9, 0.1, 6, wood, 0, -0.05, 0); });
+  set('title', 800, { cam: [-0.5, 1.7, 2.7], look: [-0.75, 1.72, 0], amb: 0.015, sway: 0, key: [-1.8, 1.0, 2.4, 0, 1.7, 0, 0xfff0d8, 85, 0.8, 0.7, 8, 1], fills: [[1.8, 2.8, -0.3, 0x3ad7ff, 26, 5], [-1.4, 2.6, -0.8, 0xff4030, 10, 5], [0.2, 0.4, 1.6, 0xffd9a0, 4, 4]], spots: {} }, g => { curtain(g, 9, 5, 0, 2.5, -1.6); B(g, 9, 0.1, 6, wood, 0, -0.05, 0); });
   P.scareDoll = makeDoll(); P.scareDoll.scale.setScalar(2.3); P.scareDoll.visible = false; scene.add(P.scareDoll);
   P.scareTok = makeTokens(); scene.add(P.scareTok);
 }
@@ -293,7 +293,7 @@ export function init(canvas) {
   for (const who of ['bing', 'dylan', 'gavin', 'sal']) { bots[who] = makeBot(who); scene.add(bots[who]); }
   buildOffice(); buildSets();
   scene.traverse(o => { if (!o.isMesh) return; const m = Array.isArray(o.material) ? o.material[0] : o.material; const flat = m.isMeshBasicMaterial || m.transparent || o.userData.noShadow; o.castShadow = !flat; o.receiveShadow = !m.isMeshBasicMaterial; });
-  composer = new EffectComposer(R); composer.setPixelRatio(pr); composer.setSize(1280, 720);
+  composer = new EffectComposer(R, new THREE.WebGLRenderTarget(1280, 720, { type: THREE.HalfFloatType, samples: 4 })); composer.setPixelRatio(pr); composer.setSize(1280, 720);
   composer.addPass(new RenderPass(scene, cam)); bloom = new UnrealBloomPass(new THREE.Vector2(1280, 720), 0.4, 0.6, 1.25); composer.addPass(bloom); composer.addPass(new OutputPass()); fin = new ShaderPass(FINAL); composer.addPass(fin);
 }
 const flick = (t, s = 0) => (Math.sin(t * 17 + s) > 0.2 || Math.sin(t * 3.1 + s) > 0) ? 1 : 0.2;
@@ -370,7 +370,7 @@ export function render(view, s, t) {
     } else {
       P.lampGlow.color.setRGB(3 * f, 2.8 * f, 2.3 * f); P.lampBeam.opacity = 0.02 * f;
       const lx = Math.sin(t * 0.8) * 0.02;
-      light({ amb: 0.05, key: [lx, 2.5, 0.6, lx * 30, 0, 0.6, 0xfff0c8, 120 * f, 0.95, 0.7, 7], fills: [[0, 2.6, -1.7, 0xbfd6ff, 15 * f, 5.4], s.lightL ? [-4.4, 2.15, 0.2, 0xf2f6dc, 14 * flick(t * 2.3), 4.2] : [-1.2, 1.3, 1.0, 0x4dffa0, 1.5, 2.5], s.lightR ? [4.4, 2.15, 0.2, 0xf2f6dc, 14 * flick(t * 2.3), 4.2] : null] }, t, 0);
+      light({ amb: 0.05, key: [lx, 2.5, 0.6, lx * 30, 0, 0.6, 0xfff0c8, 120 * f, 0.95, 0.7, 7], fills: [[0, 2.6, -1.7, 0xbfd6ff, 15 * f, 5.4], s.lightL ? [-4.4, 2.15, 0.2, 0xf2f6dc, 8 * flick(t * 2.3), 4.6] : [-1.2, 1.3, 1.0, 0x4dffa0, 1.5, 2.5], s.lightR ? [4.4, 2.15, 0.2, 0xf2f6dc, 8 * flick(t * 2.3), 4.6] : null] }, t, 0);
     }
   } else { // jumpscare, in the office
     const k = Math.min(1, view.t / 0.16), e = 1 - Math.pow(1 - k, 3), dist = 2.8 - (view.who === 'benton' ? 1.5 : 1.75) * e, dx = -Math.sin(view.yaw), dz = -Math.cos(view.yaw);
@@ -385,7 +385,7 @@ export function render(view, s, t) {
   if (quality > 0) composer.render(); else R.render(scene, cam);
   // drop quality on slow machines so the game stays playable
   const now = performance.now(), dt = now - last; last = now;
-  if (dt < 250) { slow = dt > 36 ? slow + dt : Math.max(0, slow - dt * 0.5); if (slow > 3500 && quality > 0) { quality--; slow = 0; if (quality === 1) { R.setPixelRatio(1); composer.setPixelRatio(1); bloom.enabled = false; key.shadow.mapSize.set(512, 512); if (key.shadow.map) { key.shadow.map.dispose(); key.shadow.map = null; } } else { key.castShadow = false; } } }
+  if (dt < 250) { slow = dt > 36 ? slow + dt : Math.max(0, slow - dt * 0.5); if (slow > 3500 && quality > 0) { quality--; slow = 0; if (quality === 1) { R.setPixelRatio(1); composer.setPixelRatio(1); bloom.enabled = false; setFur(false); key.shadow.mapSize.set(512, 512); if (key.shadow.map) { key.shadow.map.dispose(); key.shadow.map = null; } } else { key.castShadow = false; } } }
 }
 export const getQuality = () => quality;
 // Where the office's 3D buttons are on the 1280x720 screen right now (call after render). Follows the lens warp.

diff --git a/games/five-nights-at-bings/js/kit.js b/games/five-nights-at-bings/js/kit.js
@@ -86,3 +86,36 @@ export function beam(p, x, y, z, r, h, color = 0xfff2d0, op = 0.07) {
   const m = new THREE.MeshBasicMaterial({ color, transparent: true, opacity: op, depthWrite: false, side: THREE.DoubleSide, blending: THREE.AdditiveBlending, fog: false, alphaMap: FADE });
   const c = add(p, new THREE.ConeGeometry(r, h, 24, 1, true), m, x, y - h / 2, z); m.opacity = op = op * 0.5; c.userData.noShadow = true; m.userData.base = op; return m;
 }
+
+// ---------- fur: stacked see-through shells that read as real fuzz ----------
+const FUR_N = 12, furShells = [], furBases = [];
+export function furMat(color, len = 0.034, den = 230) {
+  const c = new THREE.Color(color);
+  const base = new THREE.MeshStandardMaterial({ color: c.clone().multiplyScalar(0.5), map: GRIME, roughness: 1 }); base.userData.full = c; furBases.push(base);
+  const shell = new THREE.MeshStandardMaterial({ color: c, roughness: 0.95 });
+  shell.onBeforeCompile = sh => {
+    sh.uniforms.uLen = { value: len }; sh.uniforms.uDen = { value: den };
+    sh.vertexShader = 'uniform float uLen; varying vec3 vFurP; varying float vShell;\n' + sh.vertexShader.replace('#include <begin_vertex>', `#include <begin_vertex>\n vShell = (float(gl_InstanceID) + 1.0) / ${FUR_N}.0; vFurP = position; transformed += normal * vShell * uLen + vec3(0.0, -1.0, 0.0) * vShell * vShell * uLen * 0.3;`);
+    sh.fragmentShader = 'uniform float uDen; varying vec3 vFurP; varying float vShell;\n' + sh.fragmentShader.replace('#include <color_fragment>', `#include <color_fragment>\n vec3 fp = vFurP * uDen; vec3 cl = floor(fp); float rn = fract(sin(dot(cl, vec3(12.9898, 78.233, 37.719))) * 43758.5453); float fd = length(fract(fp) - 0.5); if (rn < vShell * 0.8 || fd > 0.72 * (1.0 - vShell * 0.7)) discard; diffuseColor.rgb *= mix(0.45, 1.25, vShell) * (0.85 + 0.3 * rn);`);
+  };
+  return { base, shell };
+}
+export function furMesh(p, geo, fm, x = 0, y = 0, z = 0) {
+  const m = add(p, geo, fm.base, x, y, z), s = new THREE.InstancedMesh(geo, fm.shell, FUR_N);
+  s.userData.noShadow = true; s.frustumCulled = false; m.add(s); furShells.push(s); return m;
+}
+export function setFur(v) { for (const s of furShells) s.visible = v; for (const b of furBases) b.color.copy(b.userData.full).multiplyScalar(v ? 0.5 : 1); }
+// A coil spring standing on y (for necks, elbows and knees).
+export function spring(p, r, h, turns, x, y, z, mat = ENDO) {
+  const pts = []; for (let i = 0; i <= turns * 14; i++) { const a = i / 14 * TAU; pts.push(new THREE.Vector3(Math.cos(a) * r, i / (turns * 14) * h - h / 2, Math.sin(a) * r)); }
+  return add(p, new THREE.TubeGeometry(new THREE.CatmullRomCurve3(pts), turns * 14, r * 0.14, 6), mat, x, y, z);
+}
+// An iris, drawn outward from the pupil (fits a sphere cap: top of the picture is the centre of the eye).
+export function irisTex(color) {
+  return tex(64, 64, (c, w, h) => {
+    const col = new THREE.Color(color), g = c.createLinearGradient(0, 0, 0, h); g.addColorStop(0, '#' + col.clone().multiplyScalar(0.35).getHexString()); g.addColorStop(0.45, '#' + col.getHexString()); g.addColorStop(0.85, '#' + col.clone().lerp(new THREE.Color(0xffffff), 0.25).getHexString()); g.addColorStop(1, '#050505');
+    c.fillStyle = g; c.fillRect(0, 0, w, h);
+    for (let i = 0; i < 64; i++) { c.fillStyle = `rgba(${rand() < 0.5 ? '0,0,0' : '255,255,255'},${rand() * 0.28})`; c.fillRect(i, 8 + rand() * 12, 1, 30 + rand() * 22); }
+    c.fillStyle = '#050505'; c.fillRect(0, h - 6, w, 6);
+  });
+}
